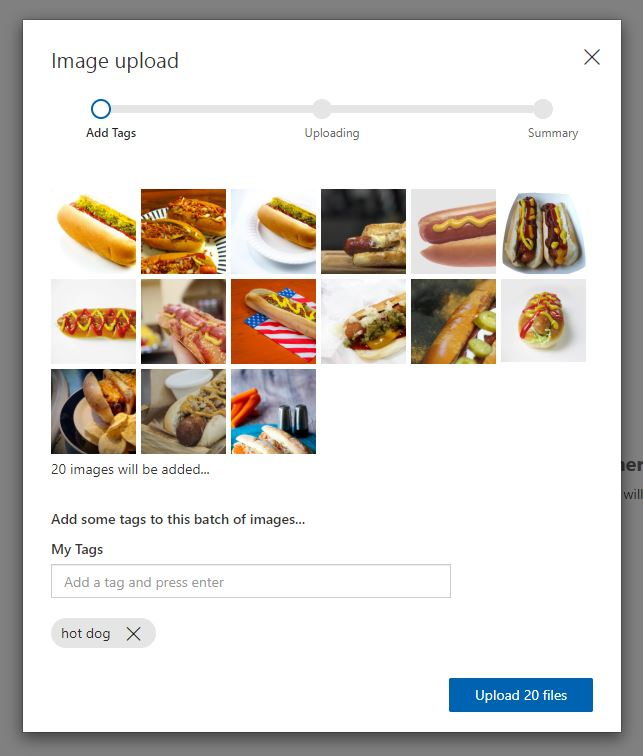
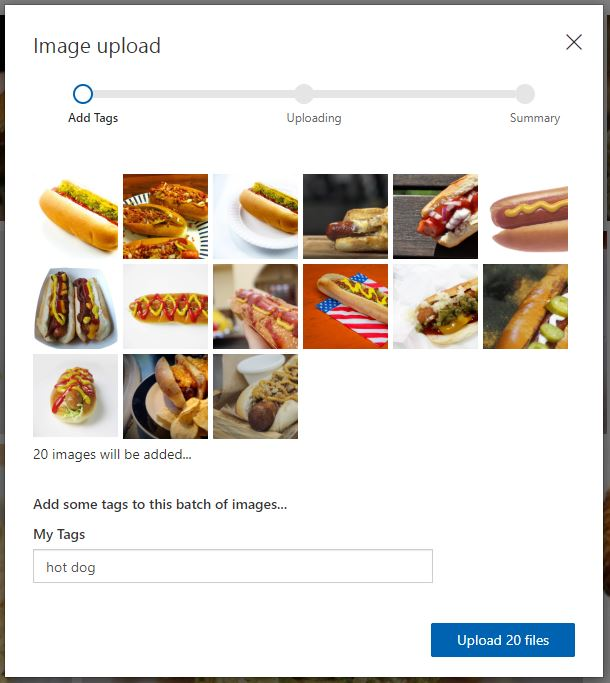
instructions complete

diff --git a/README.md b/README.md
@@ -50,14 +50,93 @@ The select the **Create resource** button
 6. Once complete, you will return to the **Create new project** window and more options will appear. Select the details below:
 * Project Types: Classification
 * Classification Types: Multiclass (single tag per image)
-* Domains: Food
+* Domains: General
 
 Then select the **Create project** button
 
 ![Create Project complete](instructions/select-settings.JPG "Create Project complete")
 
+7. You will now see a blank project workspace as shown below. This is where we will create our Hot Dog or Not Hot Dog classifier.
 
+![Blank Workspace page](instructions/blank-workspace.JPG "Blank Workspace page")
 
+8. Lets start to create our classifier by uploading some images for the machine to learn from.
+
+Click the **add images** button in the top left
+
+![Add Images](instructions/add-images.JPG "Add Images")
+
+> On the workshop device the images are already provided. Please find these images in the My Documents Folder and confirm they are there.
+
+> There is a folder containing 3 other folders:
+* **hotdog:** this is a folder of 20 different images of hot dogs
+* **nothotdog:** this is a folder of 20 different images of pizzas, hamburgers and spaghetti
+* **test:** this is a folder of 13 images of hot dogs, pizza, hamburgers and spaghetti
+
+Select the **hotdog** folder and select all the images in this folder. 
+
+> Select all: Select the first image in the folder and hold CTRL + SHIFT and select the last image in the folder. All images should now be highlighted
+
+Once all images are selected choose **open**
+
+![Select Hot Dogs](instructions/select-hotdogs.JPG "Select Hot Dogs")
+
+9. Now we need to let the computer know what is in these images. So add the tag **Hot Dog** in the bottom box and  select **Upload 20 files**
+
+![Upload Hot Dogs](instructions/hot-dog-image-upload.JPG "Upload Hot Dogs")
+
+The uploading will take a couple of minutes. Wait for the progress bar to complete
+
+![Uploading in Progress](instructions/images-uploading.JPG "Uploading in Progress")
+
+![Successful Upload](instructions/successful-upload.JPG "Successful Upload")
+
+10. You should now see your Hot Dog images added to your workspace. Also note on the left of the screen you have a category called **hot dog** and the number of images uploaded (20)
+
+![Hot Dogs available](instructions/hot-dogs-added.JPG "Hot Dogs available")
+
+11. Now we will repeat this process but for our **Not Hot Dog** category. 
+
+* Select Add images in the top left.
+* Locate the **nothotdog** folder
+* Select all 20 images in this folder (Hint: CTRL + SHIFT + select)
+* Choose open
+
+You will see your **not hot dog** images and now add the tag **not hot dog** and select upload
+
+![Not Hot Dogs added](instructions/not-hot-dog-add-images.JPG "Not Hot Dogs added")
+
+12. Now you will see both categories of images are uploaded
+
+![All images uploaded](instructions/all-categories-uploaded.JPG "All images uploaded")
+
+13. Lets teach the computer. Click the green **Train** button.
+
+![Train the computer](instructions/toolbar.JPG "Train the computer")
+
+14. Within a couple of minutes you will be taken to the training performance page. Here you can review how effective the computer is at understanding whether there is a hot dog in the image.
+
+![Training Performance](instructions/training-preformance.JPG "Training Performance")
+
+The closer to 100% on the metrics, means the classifier is very effective. At 87% this is very impressive after only uploading 40 images in total.
+
+15. Ok, lets test the classifier using our own images. Choose the **Quick Test** button (hint: next to the train button)
+
+![Quick Test Button](instructions/quick-test.JPG "Quick Test Button")
+
+16. On the **Quick Test** page. Select the **Browse local files** button and navigate to the **test** folder of images you have not uploaded to the system.
+
+Select an image of a hot dog and click open
+
+The image will be uploaded and evaluated and results will be returned. Under the **Predictions** section. The category with the probability closest to 100% is the category the computer thinks is correct for this image.
+
+**For example below:** the computer thinks this is a hot dog and its correct!
+
+![Quick Test Hot Dog](instructions/test-hot-dog.JPG "Quick Test Hot Dog")
+
+17. This time select **Browse local files** and pick a test image which is not a hot dog. What does the computer say is the correct category?
+
+![Quick Test Not Hot Dog](instructions/test-not-hotdog.JPG "Quick Test Not Hot Dog")
 
 
 
